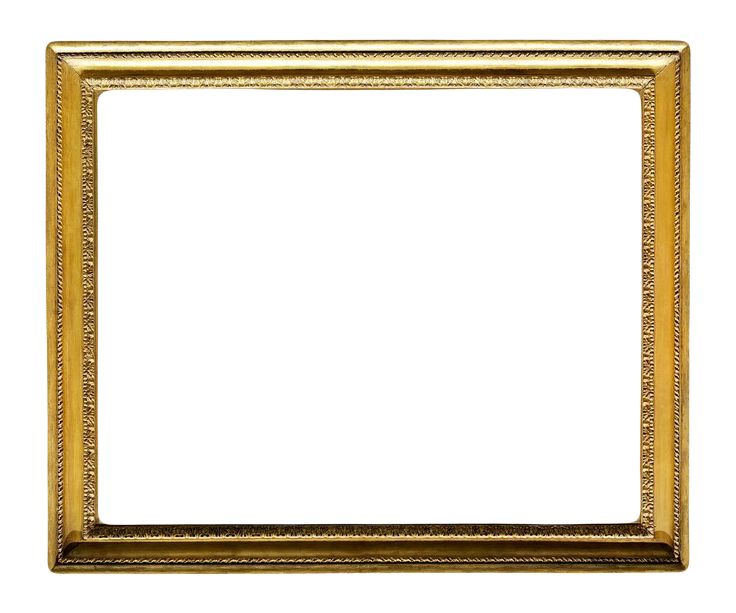
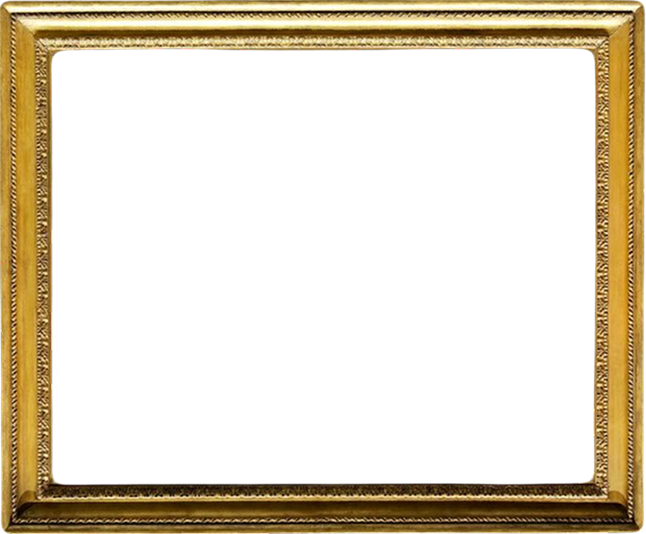
Updating some art frame styling

diff --git a/gallery.html b/gallery.html
@@ -13,8 +13,18 @@
 		<script src="/scripts/gallery.js" defer></script>
 	</head>
 	<body background="/images/Gallery_Background.png" class="gallery_body">
-		<div class="frame">
-			<img src="/images/Paris.PNG" alt="Lego Art 1" />
+		<div class="frame" style="z-index: 2">
+			<img
+				src="/images/Picture_Frame.png"
+				alt="Lego Picture Frame"
+				class="frame_background"
+				style="width: 200px; height: 120px; z-index: 3"
+			/>
+			<img
+				style="position: absolute; z-index: 1"
+				src="/images/Paris.PNG"
+				alt="Lego Art 1"
+			/>
 		</div>
 		<div class="frame">
 			<img src="/images/London.PNG" alt="Lego Art 2" />

diff --git a/styles.css b/styles.css
@@ -66,6 +66,10 @@ body {
 
 .frame {
 	display: none;
+	width: 160px;
+	height: 120px;
+	align-items: center;
+	justify-content: center;
 }
 
 .gallery_body img {
